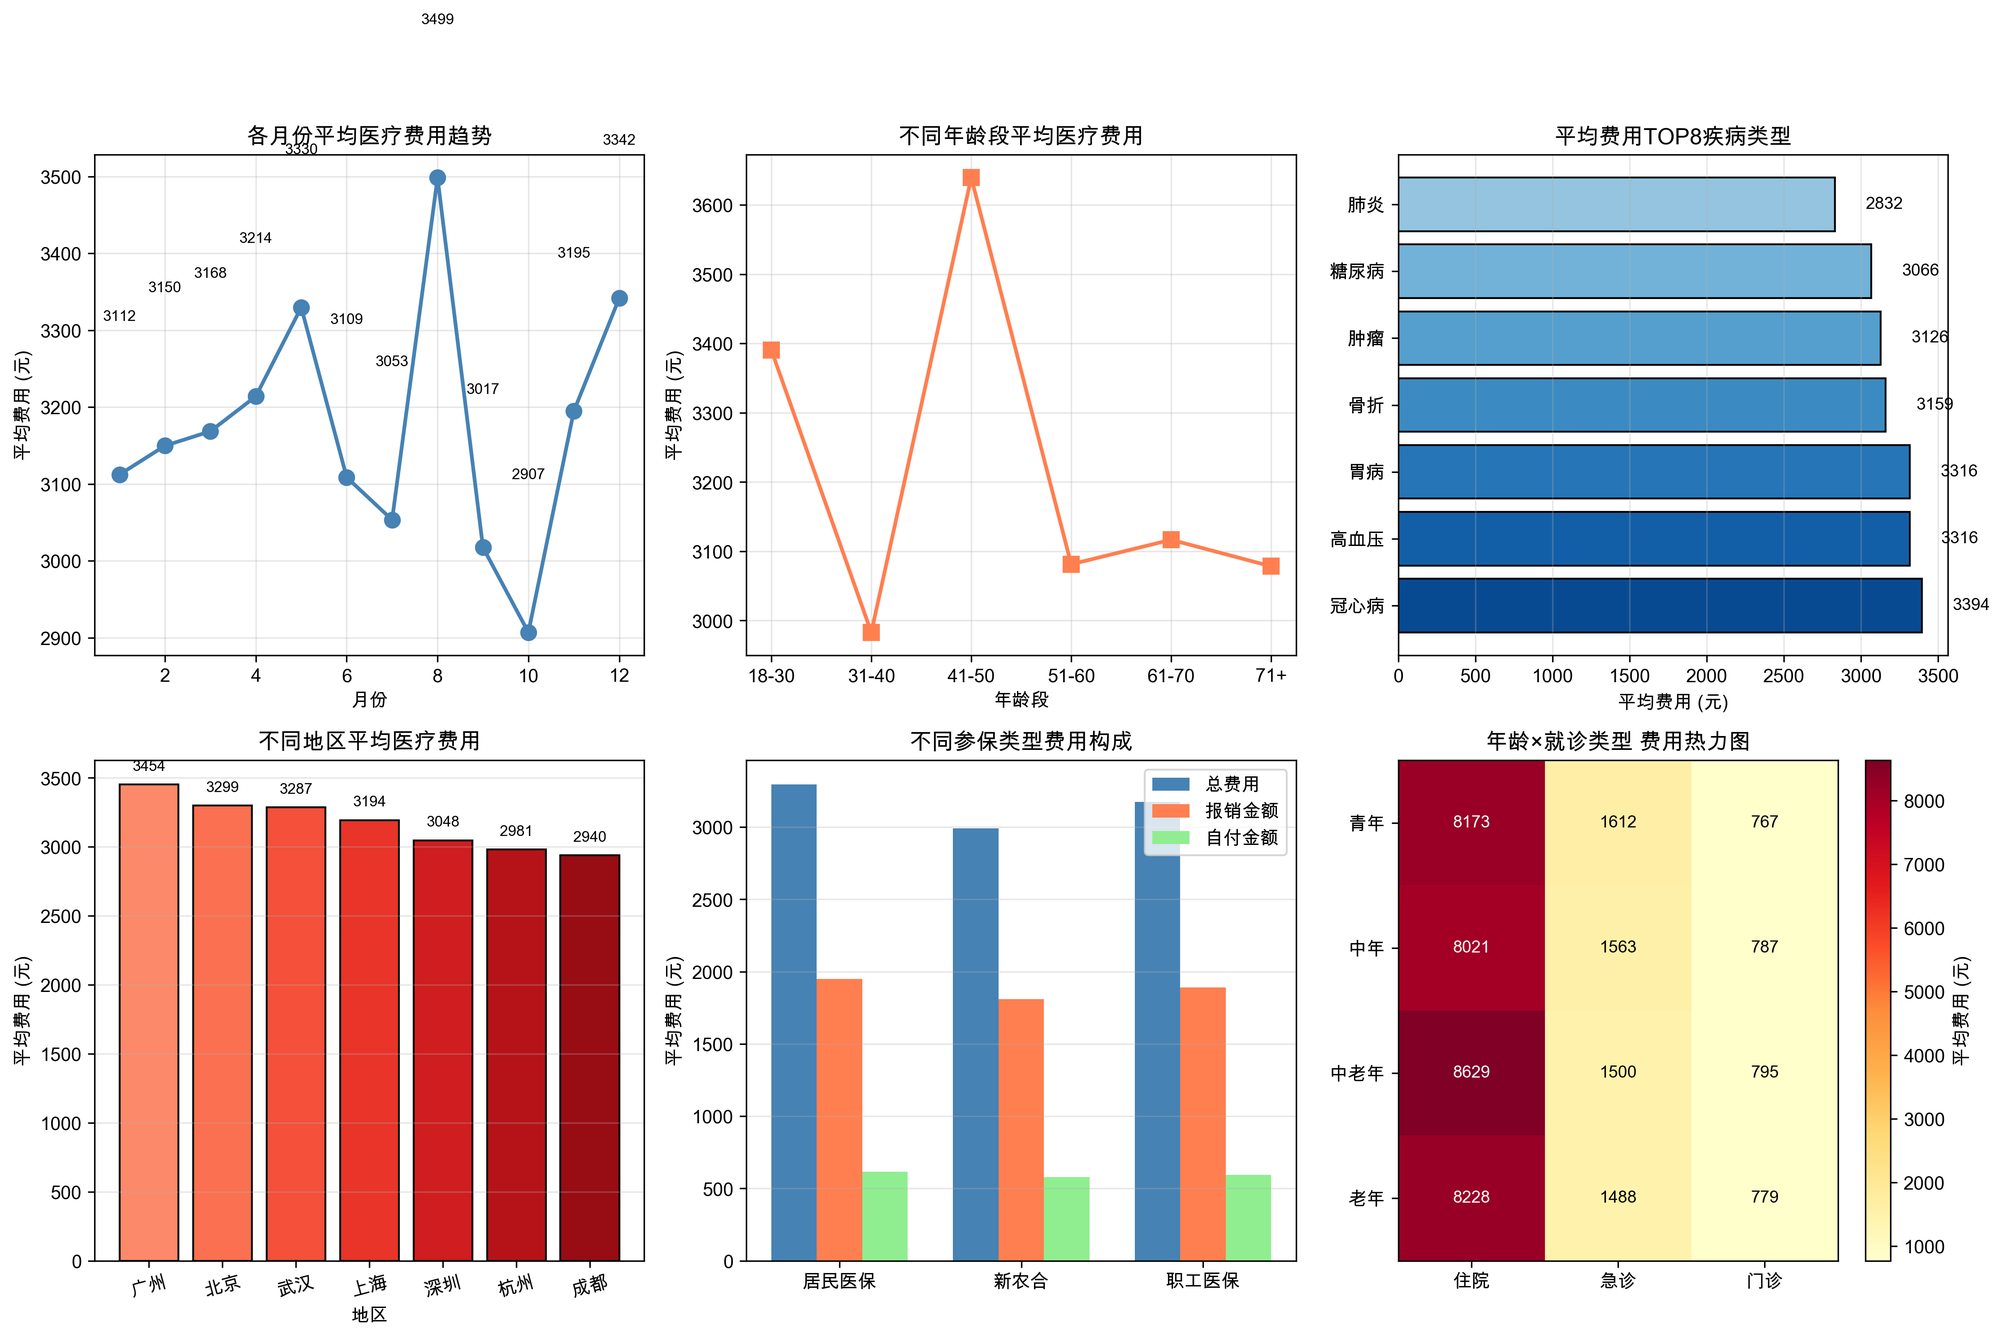
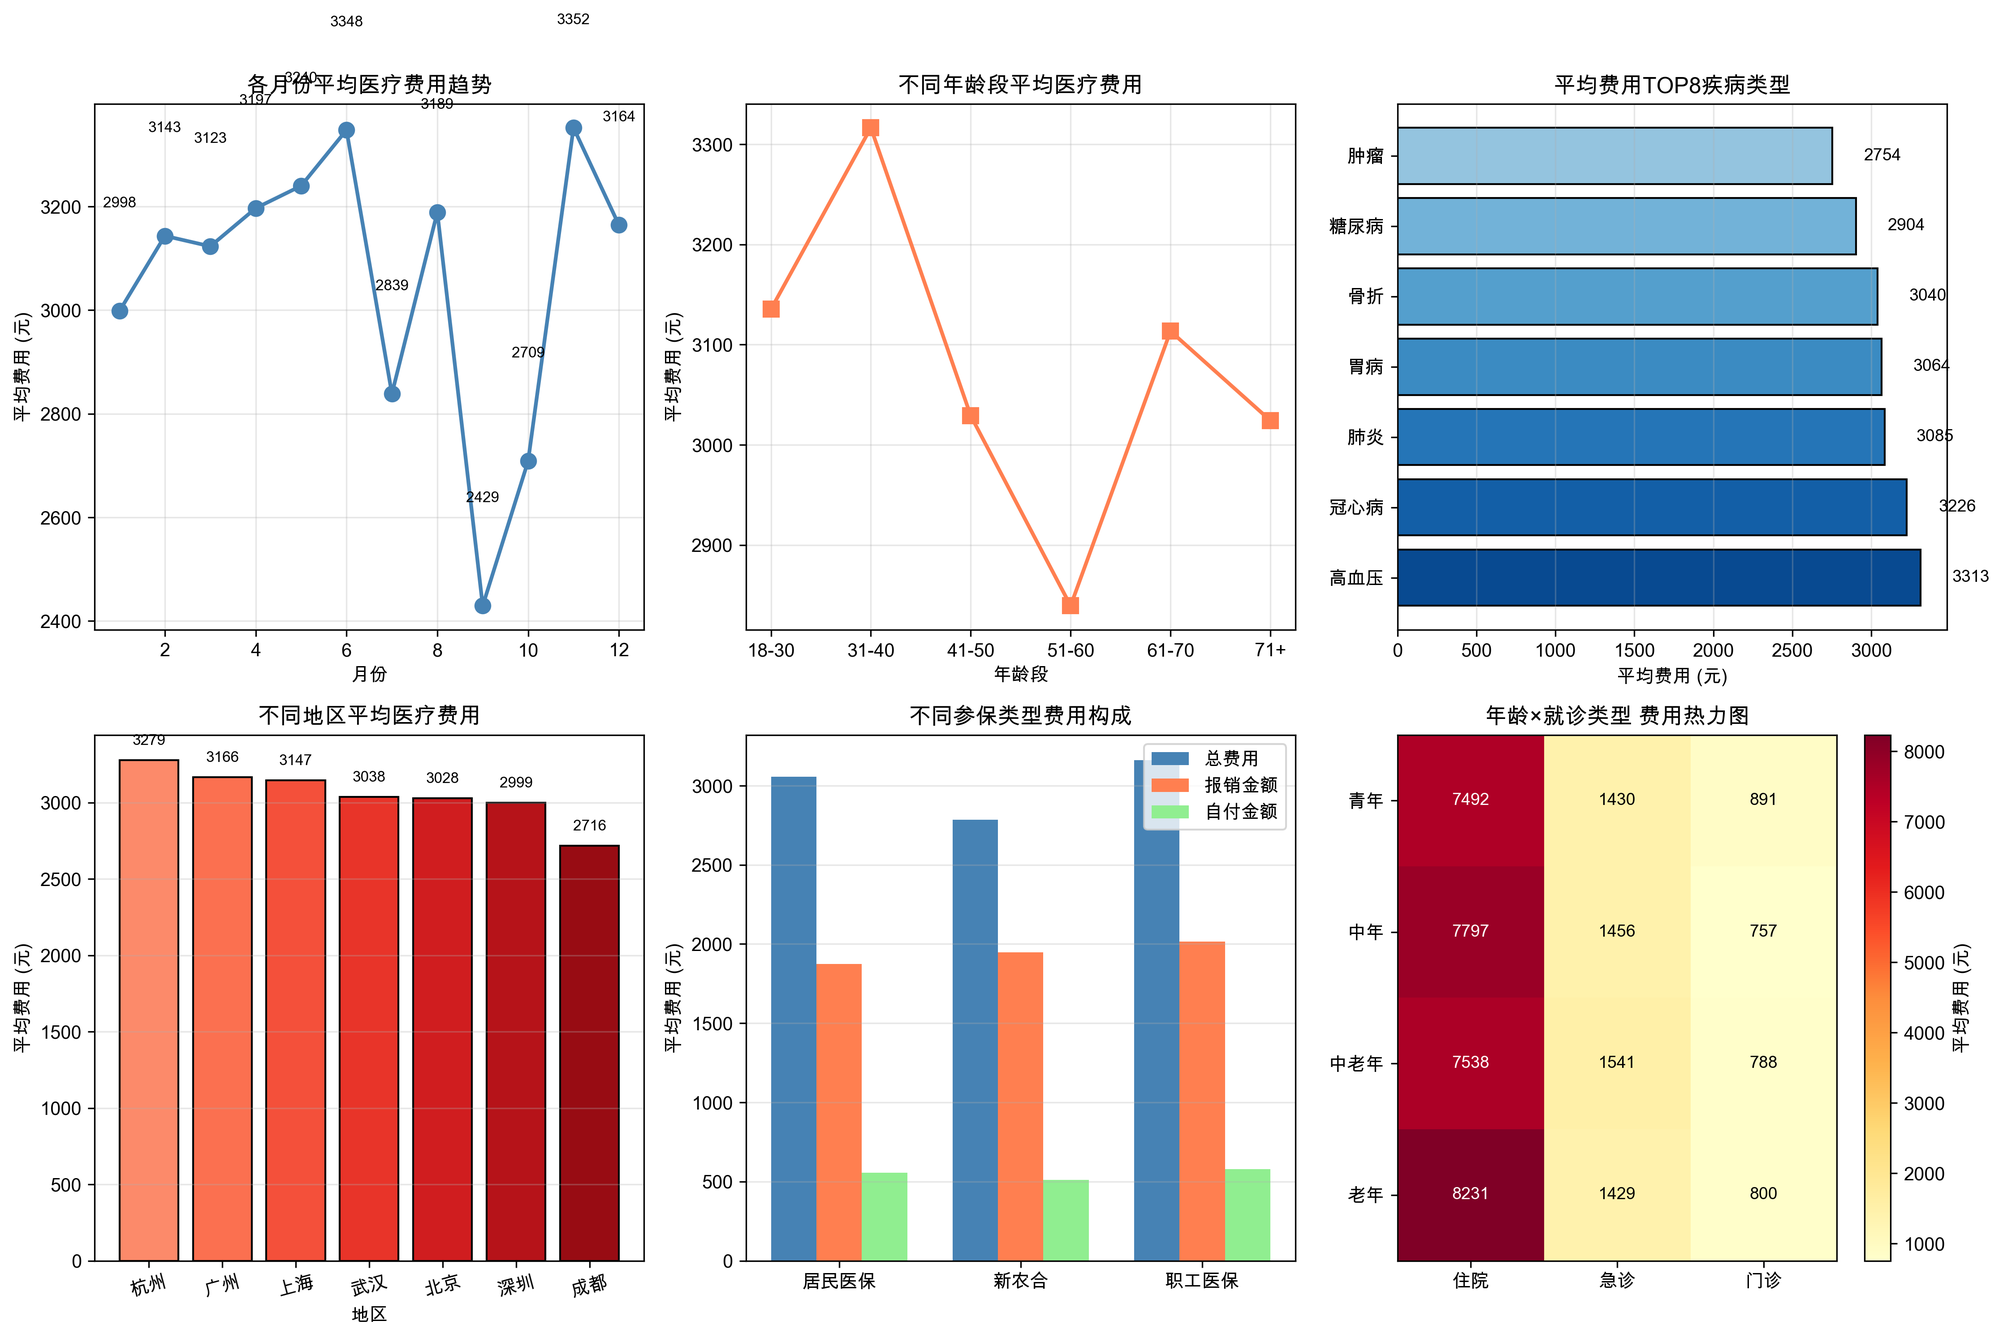
medical_big_data_second_save

diff --git a/medical_insurance_big_data.py b/medical_insurance_big_data.py
@@ -2,19 +2,21 @@ import numpy as np
 import pandas as pd
 import matplotlib.pyplot as plt
 
-# 使中文字体显示正常
-plt.rcParams['font.sans-serif'] = ['SimHei', 'Microsoft YaHei', 'Arial Unicode MS']  # 指定中文字体
-plt.rcParams['axes.unicode_minus'] = False 
+# 全局配置
+plt.rcParams.update({
+    'font.sans-serif': ['SimHei', 'Microsoft YaHei', 'Arial Unicode MS'],
+    'axes.unicode_minus': False
+})
 
-print("=" * 60)
-print("医保模拟数据分析")
-print("=" * 60)
+def print_section(title, char='='):
+    """打印章节标题"""
+    print(f"\n{char * 60}\n{title}\n{char * 60}")
 
-# 生成数据
+# 数据生成 
 def generate_data(n=3000):
+    """生成医保模拟数据"""
     np.random.seed(42)
     
-    # 生成基础数据
     df = pd.DataFrame({
         '患者ID': [f'P{i:05d}' for i in range(1, n+1)],
         '性别': np.random.choice(['男', '女'], n, p=[0.48, 0.52]),
@@ -23,71 +25,73 @@ def generate_data(n=3000):
         '参保类型': np.random.choice(['职工医保', '居民医保', '新农合'], n, p=[0.5, 0.3, 0.2]),
         '就诊类型': np.random.choice(['门诊', '住院', '急诊'], n, p=[0.55, 0.3, 0.15]),
         '疾病类型': np.random.choice(['高血压', '糖尿病', '冠心病', '肺炎', '骨折', '胃病', '肿瘤'], n),
+        '就诊月份': np.random.randint(1, 13, n)
     })
     
-    # 生成费用（根据就诊类型）
+    # 根据就诊类型生成费用
+    cost_params = {
+        '门诊': (800, 500, 50),
+        '急诊': (1500, 800, 100),
+        '住院': (12000, 8000, 500)
+    }
+    
     costs = np.zeros(n)
-    for i in range(n):
-        if df.loc[i, '就诊类型'] == '门诊':
-            costs[i] = max(50, np.random.normal(800, 500))
-        elif df.loc[i, '就诊类型'] == '急诊':
-            costs[i] = max(100, np.random.normal(1500, 800))
-        else:
-            costs[i] = max(500, np.random.normal(12000, 8000))
+    for idx, (_, row) in enumerate(df.iterrows()):
+        mean, std, min_val = cost_params[row['就诊类型']]
+        costs[idx] = max(min_val, np.random.normal(mean, std))
     
     df['医疗总费用'] = costs.round(2)
     df['报销比例'] = np.random.uniform(0.5, 0.9, n).round(2)
     df['报销金额'] = (df['医疗总费用'] * df['报销比例']).round(2)
     df['自付金额'] = (df['医疗总费用'] - df['报销金额']).round(2)
-    df['就诊月份'] = np.random.randint(1, 13, n)
     
     return df
 
-df_original = generate_data(3000)
-print(f"生成 {len(df_original)} 条记录")
-
-# 注入缺失值和异常值
-print("\n注入缺失值和异常值...")
-
+# 数据污染 
 def inject_problems(df):
+    """注入缺失值和异常值"""
     df_bad = df.copy()
     n = len(df_bad)
     
-    # 缺失值 
+    # 缺失值注入
     for col in ['医疗总费用', '报销金额', '年龄']:
-        idx = np.random.choice(n, int(n*0.05), replace=False)
+        idx = np.random.choice(n, int(n * 0.05), replace=False)
         df_bad.loc[idx, col] = np.nan
     
-    # 异常值 
+    # 异常值注入（费用列）
     for col in ['医疗总费用', '报销金额']:
-        valid = df_bad[col].notna()
-        idx = df_bad[valid].index
-        outlier_idx = np.random.choice(idx, int(len(idx)*0.03), replace=False)
-        for i in outlier_idx:
-            df_bad.loc[i, col] = np.random.choice([-1000, np.random.uniform(500000, 2000000)])
+        valid_idx = df_bad[col].notna()
+        outlier_idx = np.random.choice(
+            df_bad[valid_idx].index, 
+            int(valid_idx.sum() * 0.03), 
+            replace=False
+        )
+        df_bad.loc[outlier_idx, col] = np.random.choice(
+            [-1000, np.random.uniform(500000, 2000000)], 
+            len(outlier_idx)
+        )
     
-    # 年龄异常
+    # 年龄异常值
     idx = np.random.choice(n, 10, replace=False)
-    df_bad.loc[idx, '年龄'] = np.random.choice([-5, 150, 200])
+    df_bad.loc[idx, '年龄'] = np.random.choice([-5, 150, 200], 10)
     
     return df_bad
 
-df_with_issues = inject_problems(df_original)
-print(f"缺失值总数: {df_with_issues.isnull().sum().sum()}")
-print(f"各列缺失情况:\n{df_with_issues.isnull().sum()[df_with_issues.isnull().sum() > 0]}")
-
-# 数据清洗
-print("\n数据清洗...")
-
+# 数据清洗 
 def clean_data(df):
+    """清洗数据：填充缺失值 + 剔除异常值"""
     df_clean = df.copy()
     
-    # 填充缺失值
+    # 1. 填充缺失值
     df_clean['年龄'] = df_clean['年龄'].fillna(df_clean['年龄'].median())
-    df_clean['报销金额'] = df_clean['报销金额'].fillna(df_clean['医疗总费用'] * df_clean['报销比例'])
-    df_clean['医疗总费用'] = df_clean['医疗总费用'].fillna(df_clean.groupby('就诊类型')['医疗总费用'].transform('median'))
+    df_clean['报销金额'] = df_clean['报销金额'].fillna(
+        df_clean['医疗总费用'] * df_clean['报销比例']
+    )
+    df_clean['医疗总费用'] = df_clean['医疗总费用'].fillna(
+        df_clean.groupby('就诊类型')['医疗总费用'].transform('median')
+    )
     
-    # 剔除异常值（IQR方法）
+    # 2. 剔除异常值（IQR方法）
     for col in ['医疗总费用', '报销金额', '自付金额']:
         Q1, Q3 = df_clean[col].quantile(0.25), df_clean[col].quantile(0.75)
         IQR = Q3 - Q1
@@ -95,127 +99,139 @@ def clean_data(df):
         df_clean.loc[(df_clean[col] < lower) | (df_clean[col] > upper), col] = np.nan
         df_clean[col] = df_clean[col].fillna(df_clean[col].median())
     
-    # 年龄异常修正
+    # 3. 年龄异常修正
     df_clean.loc[(df_clean['年龄'] < 0) | (df_clean['年龄'] > 120), '年龄'] = df_clean['年龄'].median()
     
     return df_clean
+    # 可视化
+def plot_trends(df):
+    
+    fig = plt.figure(figsize=(15, 10))
+    
+    # 1. 月度费用趋势（折线图）
+    ax1 = plt.subplot(2, 3, 1)
+    monthly = df.groupby('就诊月份')['医疗总费用'].mean()
+    ax1.plot(monthly.index, monthly.values, marker='o', linewidth=2, color='steelblue', markersize=8)
+    ax1.set_title('各月份平均医疗费用趋势', fontweight='bold')
+    ax1.set_xlabel('月份'); ax1.set_ylabel('平均费用 (元)')
+    ax1.grid(True, alpha=0.3)
+    for i, v in enumerate(monthly.values):
+        ax1.text(i+1, v+200, f'{v:.0f}', ha='center', fontsize=8)
+    
+    # 2. 年龄段费用趋势（折线图）
+    ax2 = plt.subplot(2, 3, 2)
+    bins = [18, 30, 40, 50, 60, 70, 90]
+    labels = ['18-30', '31-40', '41-50', '51-60', '61-70', '71+']
+    age_group = pd.cut(df['年龄'], bins=bins, labels=labels)
+    age_cost = df.groupby(age_group)['医疗总费用'].mean()
+    ax2.plot(range(len(age_cost)), age_cost.values, marker='s', linewidth=2, color='coral', markersize=8)
+    ax2.set_xticks(range(len(age_cost))); ax2.set_xticklabels(age_cost.index)
+    ax2.set_title('不同年龄段平均医疗费用', fontweight='bold')
+    ax2.set_xlabel('年龄段'); ax2.set_ylabel('平均费用 (元)')
+    ax2.grid(True, alpha=0.3)
+    
+    # 3. 疾病类型费用TOP8（水平柱状图）
+    ax3 = plt.subplot(2, 3, 3)
+    disease = df.groupby('疾病类型')['医疗总费用'].mean().sort_values(ascending=False).head(8)
+    colors = plt.cm.Blues(np.linspace(0.4, 0.9, len(disease)))[::-1]
+    bars = ax3.barh(disease.index, disease.values, color=colors, edgecolor='black')
+    ax3.set_title('平均费用TOP8疾病类型', fontweight='bold')
+    ax3.set_xlabel('平均费用 (元)')
+    ax3.grid(True, alpha=0.3, axis='x')
+    for i, v in enumerate(disease.values):
+        ax3.text(v + 200, i, f'{v:.0f}', va='center', fontsize=9)
+    
+    # 4. 地区费用对比（垂直柱状图）
+    ax4 = plt.subplot(2, 3, 4)
+    region = df.groupby('地区')['医疗总费用'].mean().sort_values(ascending=False)
+    colors4 = plt.cm.Reds(np.linspace(0.4, 0.9, len(region)))
+    bars = ax4.bar(region.index, region.values, color=colors4, edgecolor='black')
+    ax4.set_title('不同地区平均医疗费用', fontweight='bold')
+    ax4.set_xlabel('地区'); ax4.set_ylabel('平均费用 (元)')
+    ax4.tick_params(axis='x', rotation=15)
+    ax4.grid(True, alpha=0.3, axis='y')
+    for bar, v in zip(bars, region.values):
+        ax4.text(bar.get_x() + bar.get_width()/2, v + 100, f'{v:.0f}', ha='center', fontsize=8)
+    
+    # 5. 参保类型费用构成（分组柱状图）
+    ax5 = plt.subplot(2, 3, 5)
+    ins = df.groupby('参保类型')[['医疗总费用', '报销金额', '自付金额']].mean()
+    x = np.arange(len(ins.index))
+    width = 0.25
+    ax5.bar(x - width, ins['医疗总费用'], width, label='总费用', color='steelblue')
+    ax5.bar(x, ins['报销金额'], width, label='报销金额', color='coral')
+    ax5.bar(x + width, ins['自付金额'], width, label='自付金额', color='lightgreen')
+    ax5.set_xticks(x); ax5.set_xticklabels(ins.index)
+    ax5.set_title('不同参保类型费用构成', fontweight='bold')
+    ax5.set_ylabel('平均费用 (元)')
+    ax5.legend(); ax5.grid(True, alpha=0.3, axis='y')
+    
+    # 6. 年龄×就诊类型热力图
+    ax6 = plt.subplot(2, 3, 6)
+    age_bins = pd.cut(df['年龄'], bins=[18, 30, 45, 60, 90], labels=['青年', '中年', '中老年', '老年'])
+    pivot = df.pivot_table(values='医疗总费用', index=age_bins, columns='就诊类型', aggfunc='mean')
+    im = ax6.imshow(pivot.values, cmap='YlOrRd', aspect='auto')
+    ax6.set_xticks(range(len(pivot.columns))); ax6.set_xticklabels(pivot.columns)
+    ax6.set_yticks(range(len(pivot.index))); ax6.set_yticklabels(pivot.index)
+    ax6.set_title('年龄×就诊类型 费用热力图', fontweight='bold')
+    for i in range(len(pivot.index)):
+        for j in range(len(pivot.columns)):
+            val = pivot.values[i, j]
+            color = 'white' if val > pivot.values.max() / 2 else 'black'
+            ax6.text(j, i, f'{val:.0f}', ha='center', va='center', color=color, fontsize=9)
+    plt.colorbar(im, ax=ax6, label='平均费用 (元)')
+    
+    plt.tight_layout()
+    plt.savefig('医保数据分析图.png', dpi=300, bbox_inches='tight')
+    print("✓ 图表已保存为 '医保数据分析图.png'")
+    plt.show()
 
-df_clean = clean_data(df_with_issues)
-print(f"清洗后缺失值: {df_clean.isnull().sum().sum()}")
+# 主流程 
+def main():
+    print_section("医保模拟数据分析")
+    
+    # 生成数据
+    df_original = generate_data(3000)
+    print(f"生成 {len(df_original)} 条记录")
+    
+    # 注入问题
+    df_with_issues = inject_problems(df_original)
+    print(f"\n缺失值总数: {df_with_issues.isnull().sum().sum()}")
+    missing_cols = df_with_issues.isnull().sum()
+    print(f"各列缺失情况:\n{missing_cols[missing_cols > 0]}")
+    
+    # 清洗数据
+    print("\n数据清洗...")
+    df_clean = clean_data(df_with_issues)
+    print(f"清洗后缺失值: {df_clean.isnull().sum().sum()}")
+    
+    # 统计分析
+    print_section("统计分析")
+    print("\n描述性统计:")
+    print(df_clean[['年龄', '医疗总费用', '报销金额', '自付金额']].describe().round(2))
+    
+    print("\n按就诊类型统计:")
+    print(df_clean.groupby('就诊类型')[['医疗总费用', '报销金额']].mean().round(2))
+    
+    print("\n按参保类型统计:")
+    print(df_clean.groupby('参保类型')[['医疗总费用', '报销金额']].mean().round(2))
+    
+    # 可视化
+    print("\n生成可视化图表...")
+    plot_trends(df_clean)
+    
+    # 质量报告
+    print_section("数据质量报告")
+    print(f"原始数据: {len(df_original)} 条")
+    print(f"注入问题后: {len(df_with_issues)} 条 (缺失值 {df_with_issues.isnull().sum().sum()} 个)")
+    print(f"清洗后: {len(df_clean)} 条 (缺失值 {df_clean.isnull().sum().sum()} 个)")
+    print(f"\n总费用统计:")
+    print(f"  均值: {df_clean['医疗总费用'].mean():.2f} 元")
+    print(f"  中位数: {df_clean['医疗总费用'].median():.2f} 元")
+    print(f"  最大值: {df_clean['医疗总费用'].max():.2f} 元")
+    print(f"  最小值: {df_clean['医疗总费用'].min():.2f} 元")
+    print("=" * 60)
+    print("分析完成！")
 
-# 统计分析 
-print("\n统计分析...")
-
-print("\n描述性统计:")
-print(df_clean[['年龄', '医疗总费用', '报销金额', '自付金额']].describe().round(2))
-
-print("\n按就诊类型统计:")
-print(df_clean.groupby('就诊类型')[['医疗总费用', '报销金额']].mean().round(2))
-
-print("\n按参保类型统计:")
-print(df_clean.groupby('参保类型')[['医疗总费用', '报销金额']].mean().round(2))
-
-# 可视化 
-print("\n生成可视化图表...")
-
-fig = plt.figure(figsize=(15, 10))
-
-# 折线图 - 各月份医疗总费用趋势
-ax1 = plt.subplot(2, 3, 1)
-monthly_cost = df_clean.groupby('就诊月份')['医疗总费用'].mean()
-ax1.plot(monthly_cost.index, monthly_cost.values, marker='o', linewidth=2, color='steelblue', markersize=8)
-ax1.set_title('各月份平均医疗费用趋势', fontsize=12, fontweight='bold')
-ax1.set_xlabel('月份')
-ax1.set_ylabel('平均费用 (元)')
-ax1.grid(True, alpha=0.3)
-for i, v in enumerate(monthly_cost.values):
-    ax1.text(i+1, v+200, f'{v:.0f}', ha='center', fontsize=8)
-
-# 折线图 - 不同年龄段的费用趋势
-ax2 = plt.subplot(2, 3, 2)
-age_bins = pd.cut(df_clean['年龄'], bins=[18, 30, 40, 50, 60, 70, 90], labels=['18-30', '31-40', '41-50', '51-60', '61-70', '71+'])
-age_cost = df_clean.groupby(age_bins)['医疗总费用'].mean()
-ax2.plot(range(len(age_cost)), age_cost.values, marker='s', linewidth=2, color='coral', markersize=8)
-ax2.set_xticks(range(len(age_cost)))
-ax2.set_xticklabels(age_cost.index)
-ax2.set_title('不同年龄段平均医疗费用', fontsize=12, fontweight='bold')
-ax2.set_xlabel('年龄段')
-ax2.set_ylabel('平均费用 (元)')
-ax2.grid(True, alpha=0.3)
-
-# 柱状图 - 各疾病类型平均费用TOP8
-ax3 = plt.subplot(2, 3, 3)
-disease_cost = df_clean.groupby('疾病类型')['医疗总费用'].mean().sort_values(ascending=False).head(8)
-colors = plt.cm.Blues(np.linspace(0.4, 0.9, len(disease_cost)))[::-1]
-bars = ax3.barh(disease_cost.index, disease_cost.values, color=colors, edgecolor='black')
-ax3.set_title('平均费用TOP8疾病类型', fontsize=12, fontweight='bold')
-ax3.set_xlabel('平均费用 (元)')
-ax3.grid(True, alpha=0.3, axis='x')
-for i, v in enumerate(disease_cost.values):
-    ax3.text(v + 200, i, f'{v:.0f}', va='center', fontsize=9)
-
-# 柱状图 - 不同地区费用对比
-ax4 = plt.subplot(2, 3, 4)
-region_cost = df_clean.groupby('地区')['医疗总费用'].mean().sort_values(ascending=False)
-colors4 = plt.cm.Reds(np.linspace(0.4, 0.9, len(region_cost)))
-bars = ax4.bar(region_cost.index, region_cost.values, color=colors4, edgecolor='black')
-ax4.set_title('不同地区平均医疗费用', fontsize=12, fontweight='bold')
-ax4.set_xlabel('地区')
-ax4.set_ylabel('平均费用 (元)')
-ax4.tick_params(axis='x', rotation=15)
-ax4.grid(True, alpha=0.3, axis='y')
-for bar, v in zip(bars, region_cost.values):
-    ax4.text(bar.get_x() + bar.get_width()/2, v + 100, f'{v:.0f}', ha='center', fontsize=8)
-
-# 柱状图 - 不同参保类型费用构成
-ax5 = plt.subplot(2, 3, 5)
-insurance_group = df_clean.groupby('参保类型')[['医疗总费用', '报销金额', '自付金额']].mean()
-x = np.arange(len(insurance_group.index))
-width = 0.25
-ax5.bar(x - width, insurance_group['医疗总费用'], width, label='总费用', color='steelblue')
-ax5.bar(x, insurance_group['报销金额'], width, label='报销金额', color='coral')
-ax5.bar(x + width, insurance_group['自付金额'], width, label='自付金额', color='lightgreen')
-ax5.set_xticks(x)
-ax5.set_xticklabels(insurance_group.index)
-ax5.set_title('不同参保类型费用构成', fontsize=12, fontweight='bold')
-ax5.set_ylabel('平均费用 (元)')
-ax5.legend()
-ax5.grid(True, alpha=0.3, axis='y')
-
-# 热力图 - 年龄与就诊类型的费用矩阵
-ax6 = plt.subplot(2, 3, 6)
-# 创建年龄分组
-age_groups = pd.cut(df_clean['年龄'], bins=[18, 30, 45, 60, 90], labels=['青年', '中年', '中老年', '老年'])
-pivot_table = df_clean.pivot_table(values='医疗总费用', index=age_groups, columns='就诊类型', aggfunc='mean')
-# 绘制热力图
-im = ax6.imshow(pivot_table.values, cmap='YlOrRd', aspect='auto')
-ax6.set_xticks(range(len(pivot_table.columns)))
-ax6.set_xticklabels(pivot_table.columns)
-ax6.set_yticks(range(len(pivot_table.index)))
-ax6.set_yticklabels(pivot_table.index)
-ax6.set_title('年龄×就诊类型 费用热力图', fontsize=12, fontweight='bold')
-# 添加数值标注
-for i in range(len(pivot_table.index)):
-    for j in range(len(pivot_table.columns)):
-        ax6.text(j, i, f'{pivot_table.values[i, j]:.0f}', ha='center', va='center', 
-                color='white' if pivot_table.values[i, j] > pivot_table.values.max()/2 else 'black', fontsize=9)
-plt.colorbar(im, ax=ax6, label='平均费用 (元)')
-
-plt.tight_layout()
-plt.savefig('医保数据分析图.png', dpi=300, bbox_inches='tight')
-print("✓ 图表已保存为 '医保数据分析图.png'")
-plt.show()
-
-# 总结报告 
-print("\n【6】数据质量报告")
-print("=" * 60)
-print(f"原始数据: {len(df_original)} 条")
-print(f"注入问题后: {len(df_with_issues)} 条 (缺失值 {df_with_issues.isnull().sum().sum()} 个)")
-print(f"清洗后: {len(df_clean)} 条 (缺失值 {df_clean.isnull().sum().sum()} 个)")
-print(f"\n总费用统计:")
-print(f" 均值: {df_clean['医疗总费用'].mean():.2f} 元")
-print(f" 中位数: {df_clean['医疗总费用'].median():.2f} 元")
-print(f" 最大值: {df_clean['医疗总费用'].max():.2f} 元")
-print(f" 最小值: {df_clean['医疗总费用'].min():.2f} 元")
-print("=" * 60)
-print("分析完成！")
+if __name__ == "__main__":
+    main()
